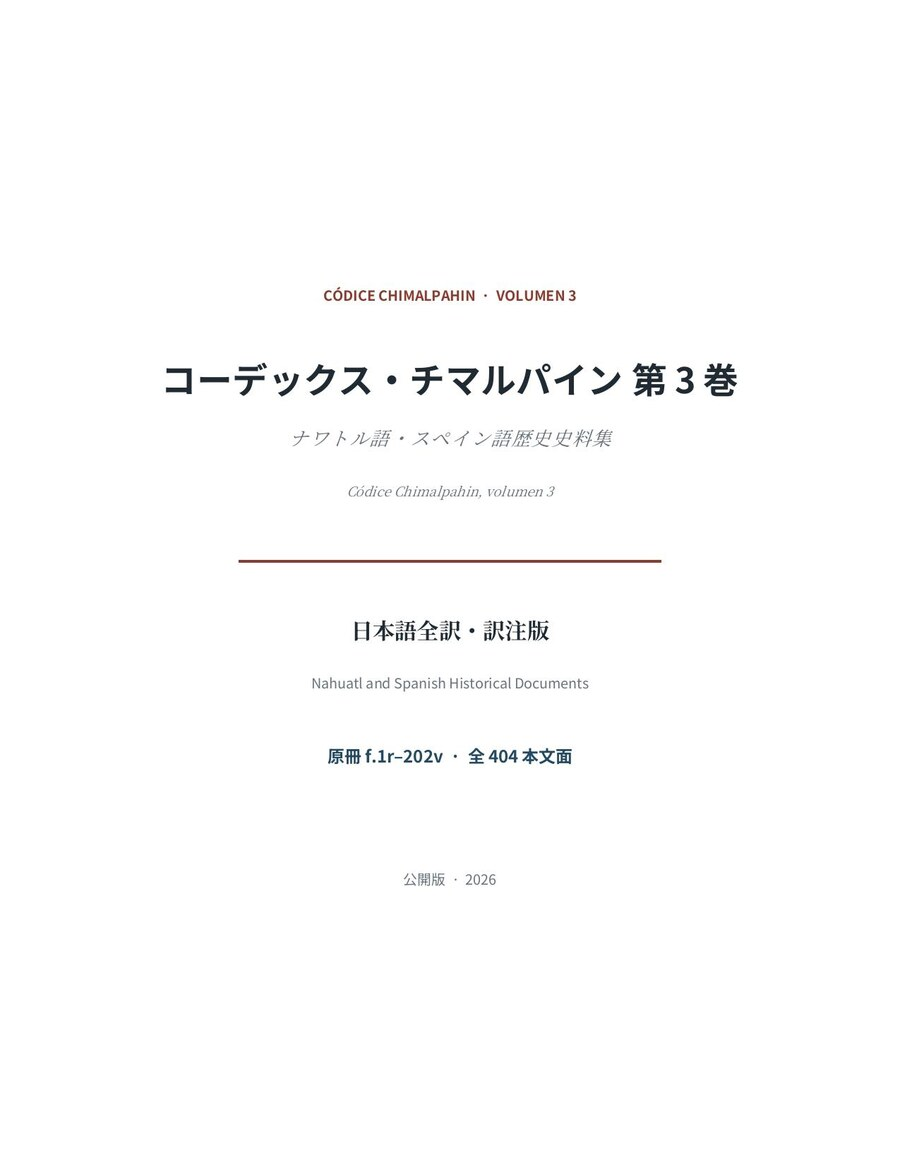
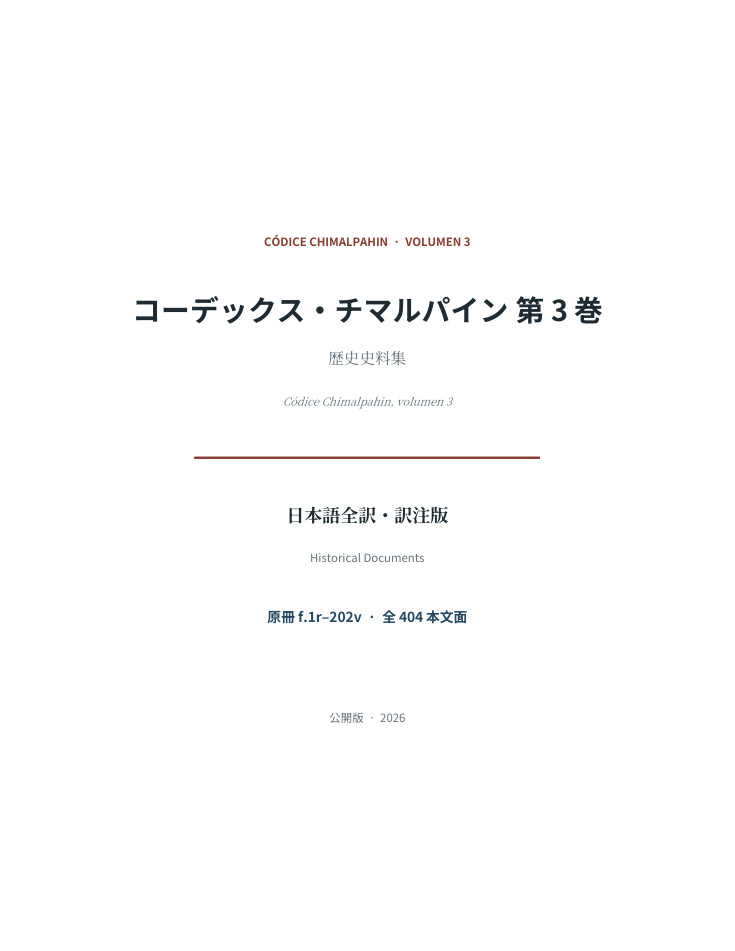
Correct identification and translation of Caltzin’s memorandum (Códice Chimalpahin vol. 3, f. 126v)

diff --git a/REVISION_LOG.md b/REVISION_LOG.md
@@ -839,3 +839,9 @@
 
 - 和題全体を単一の主題として表示し、後半を副題にしていた書式を解消した。PDFの第2–414頁・索引参照・図版と、EPUBの本文・目次は変更なし。表紙画像は修正版に統一。
[1 lines of base64/hex data omitted]
+
+
+## 2026-11-28 — コーデックス・チマルパイン第3巻 第9史料の訂正
+
+- 原冊 f. 126v (INAH画像258) を「メルチョル・カルツィンの覚書」（1543、プルペチャ語）に改め、ナワトル語のテツココ征服断片とする旧同定を撤回。PDFの掲載・目次、EPUB、表紙、書誌、詳細概要、検索を更新。第11史料のテツココ征服関係記録は別史料で、変更なし。
[1 lines of base64/hex data omitted]
